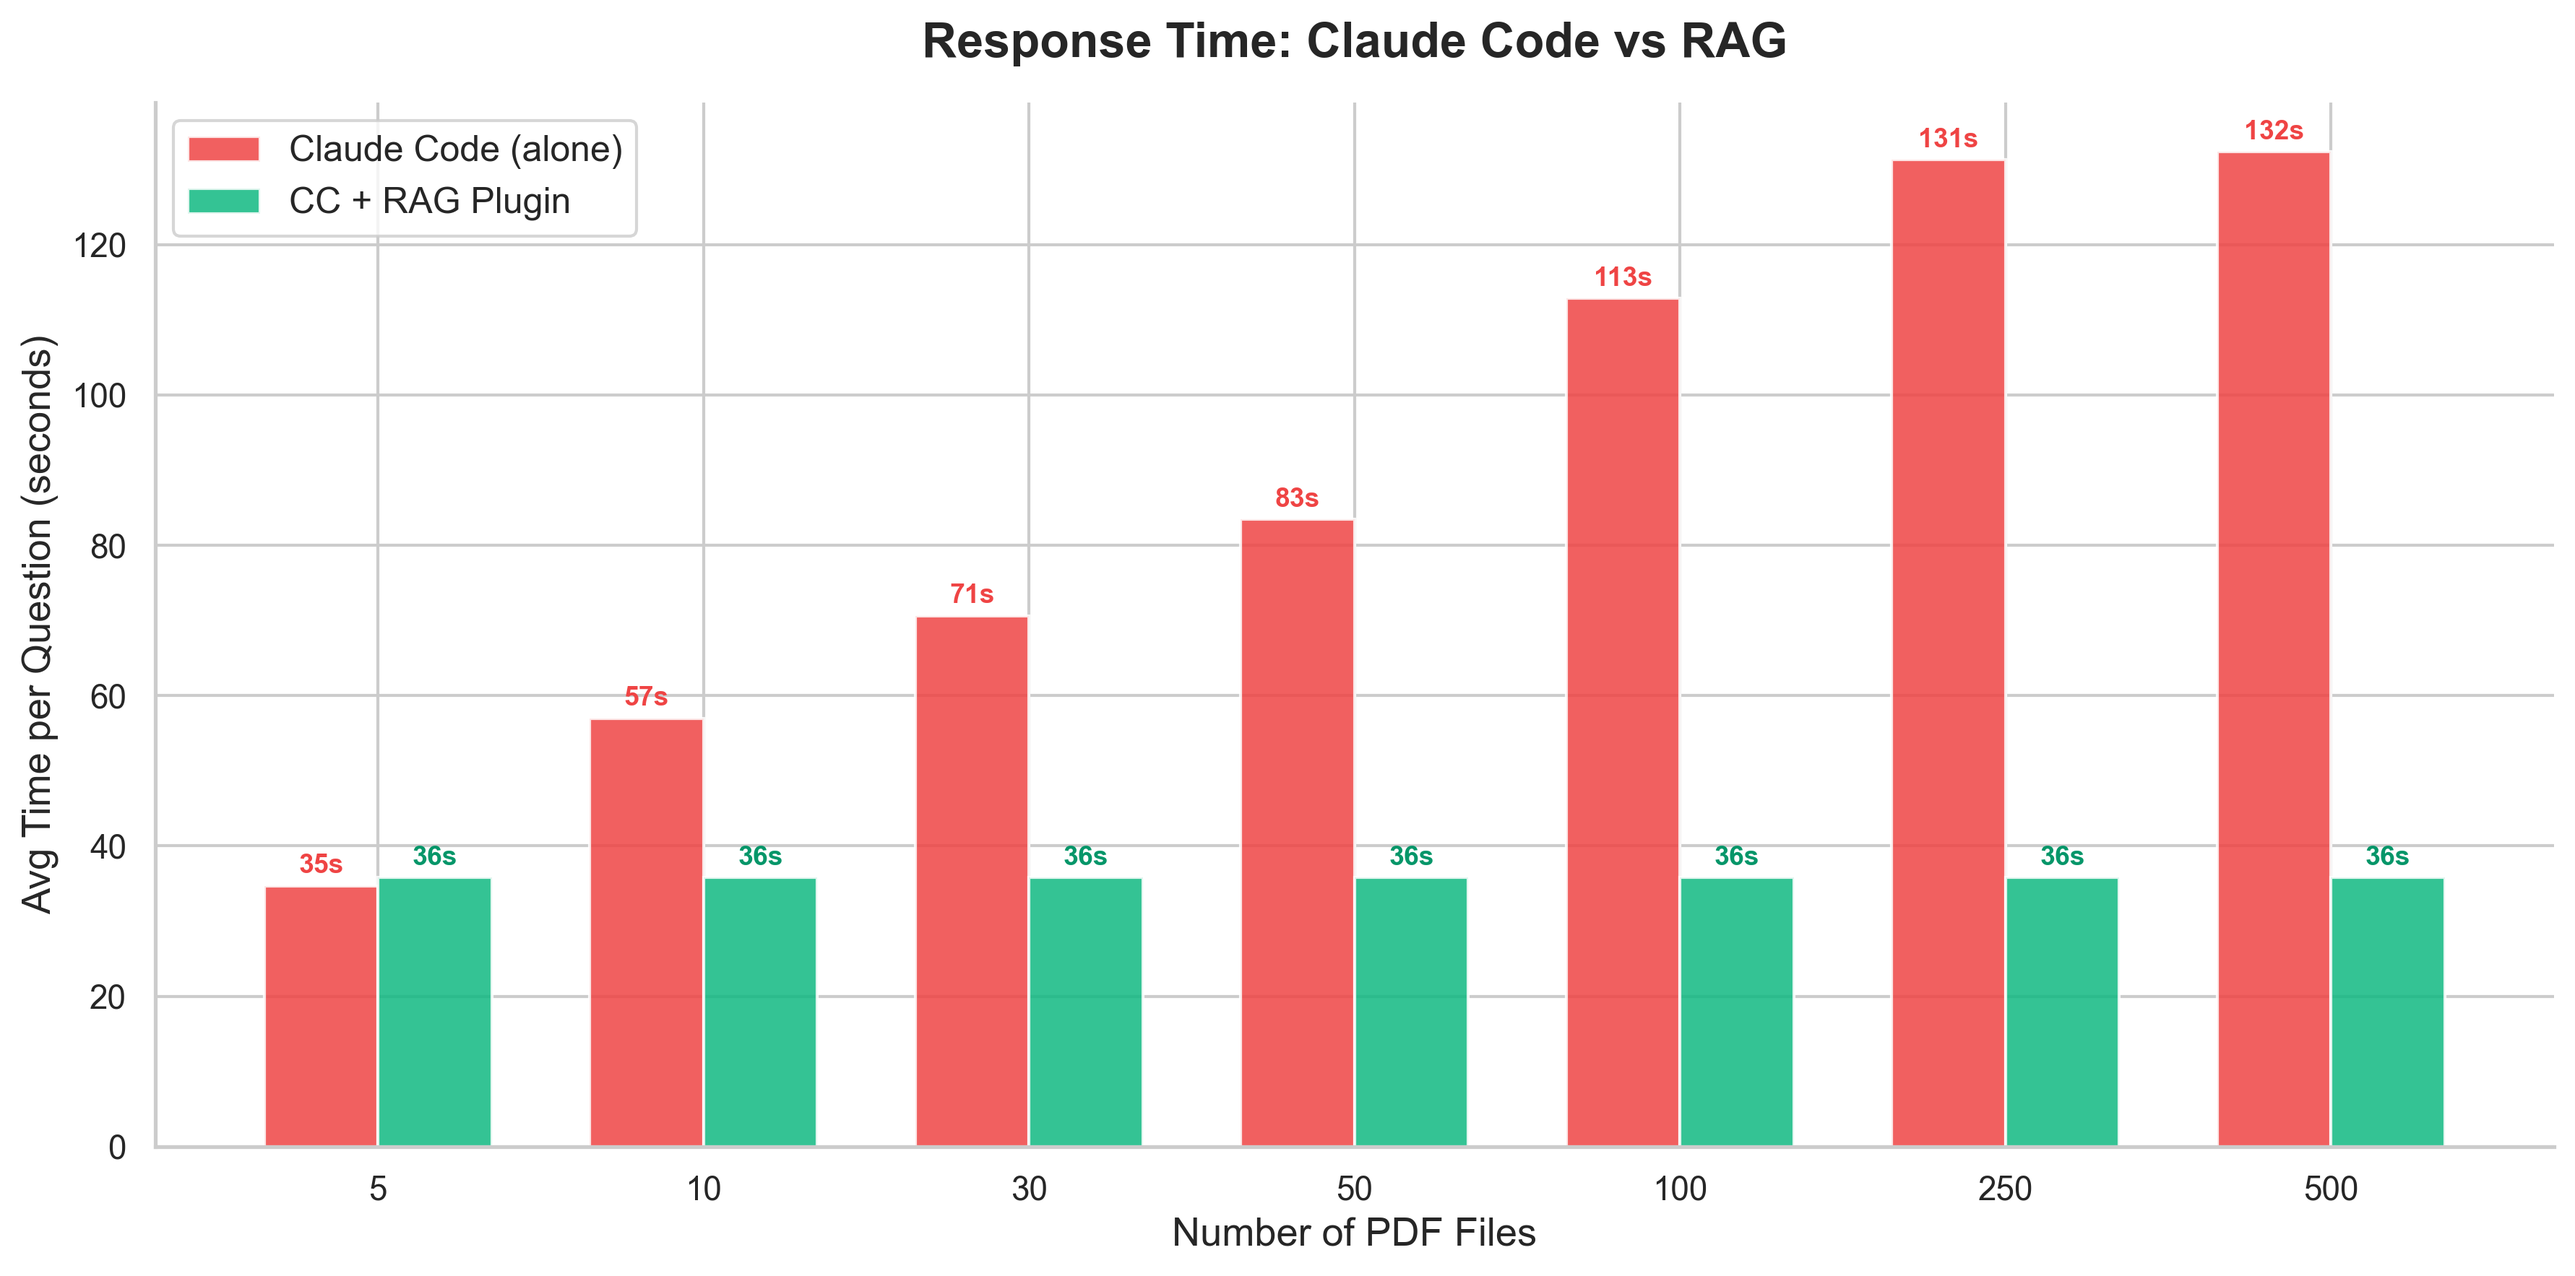
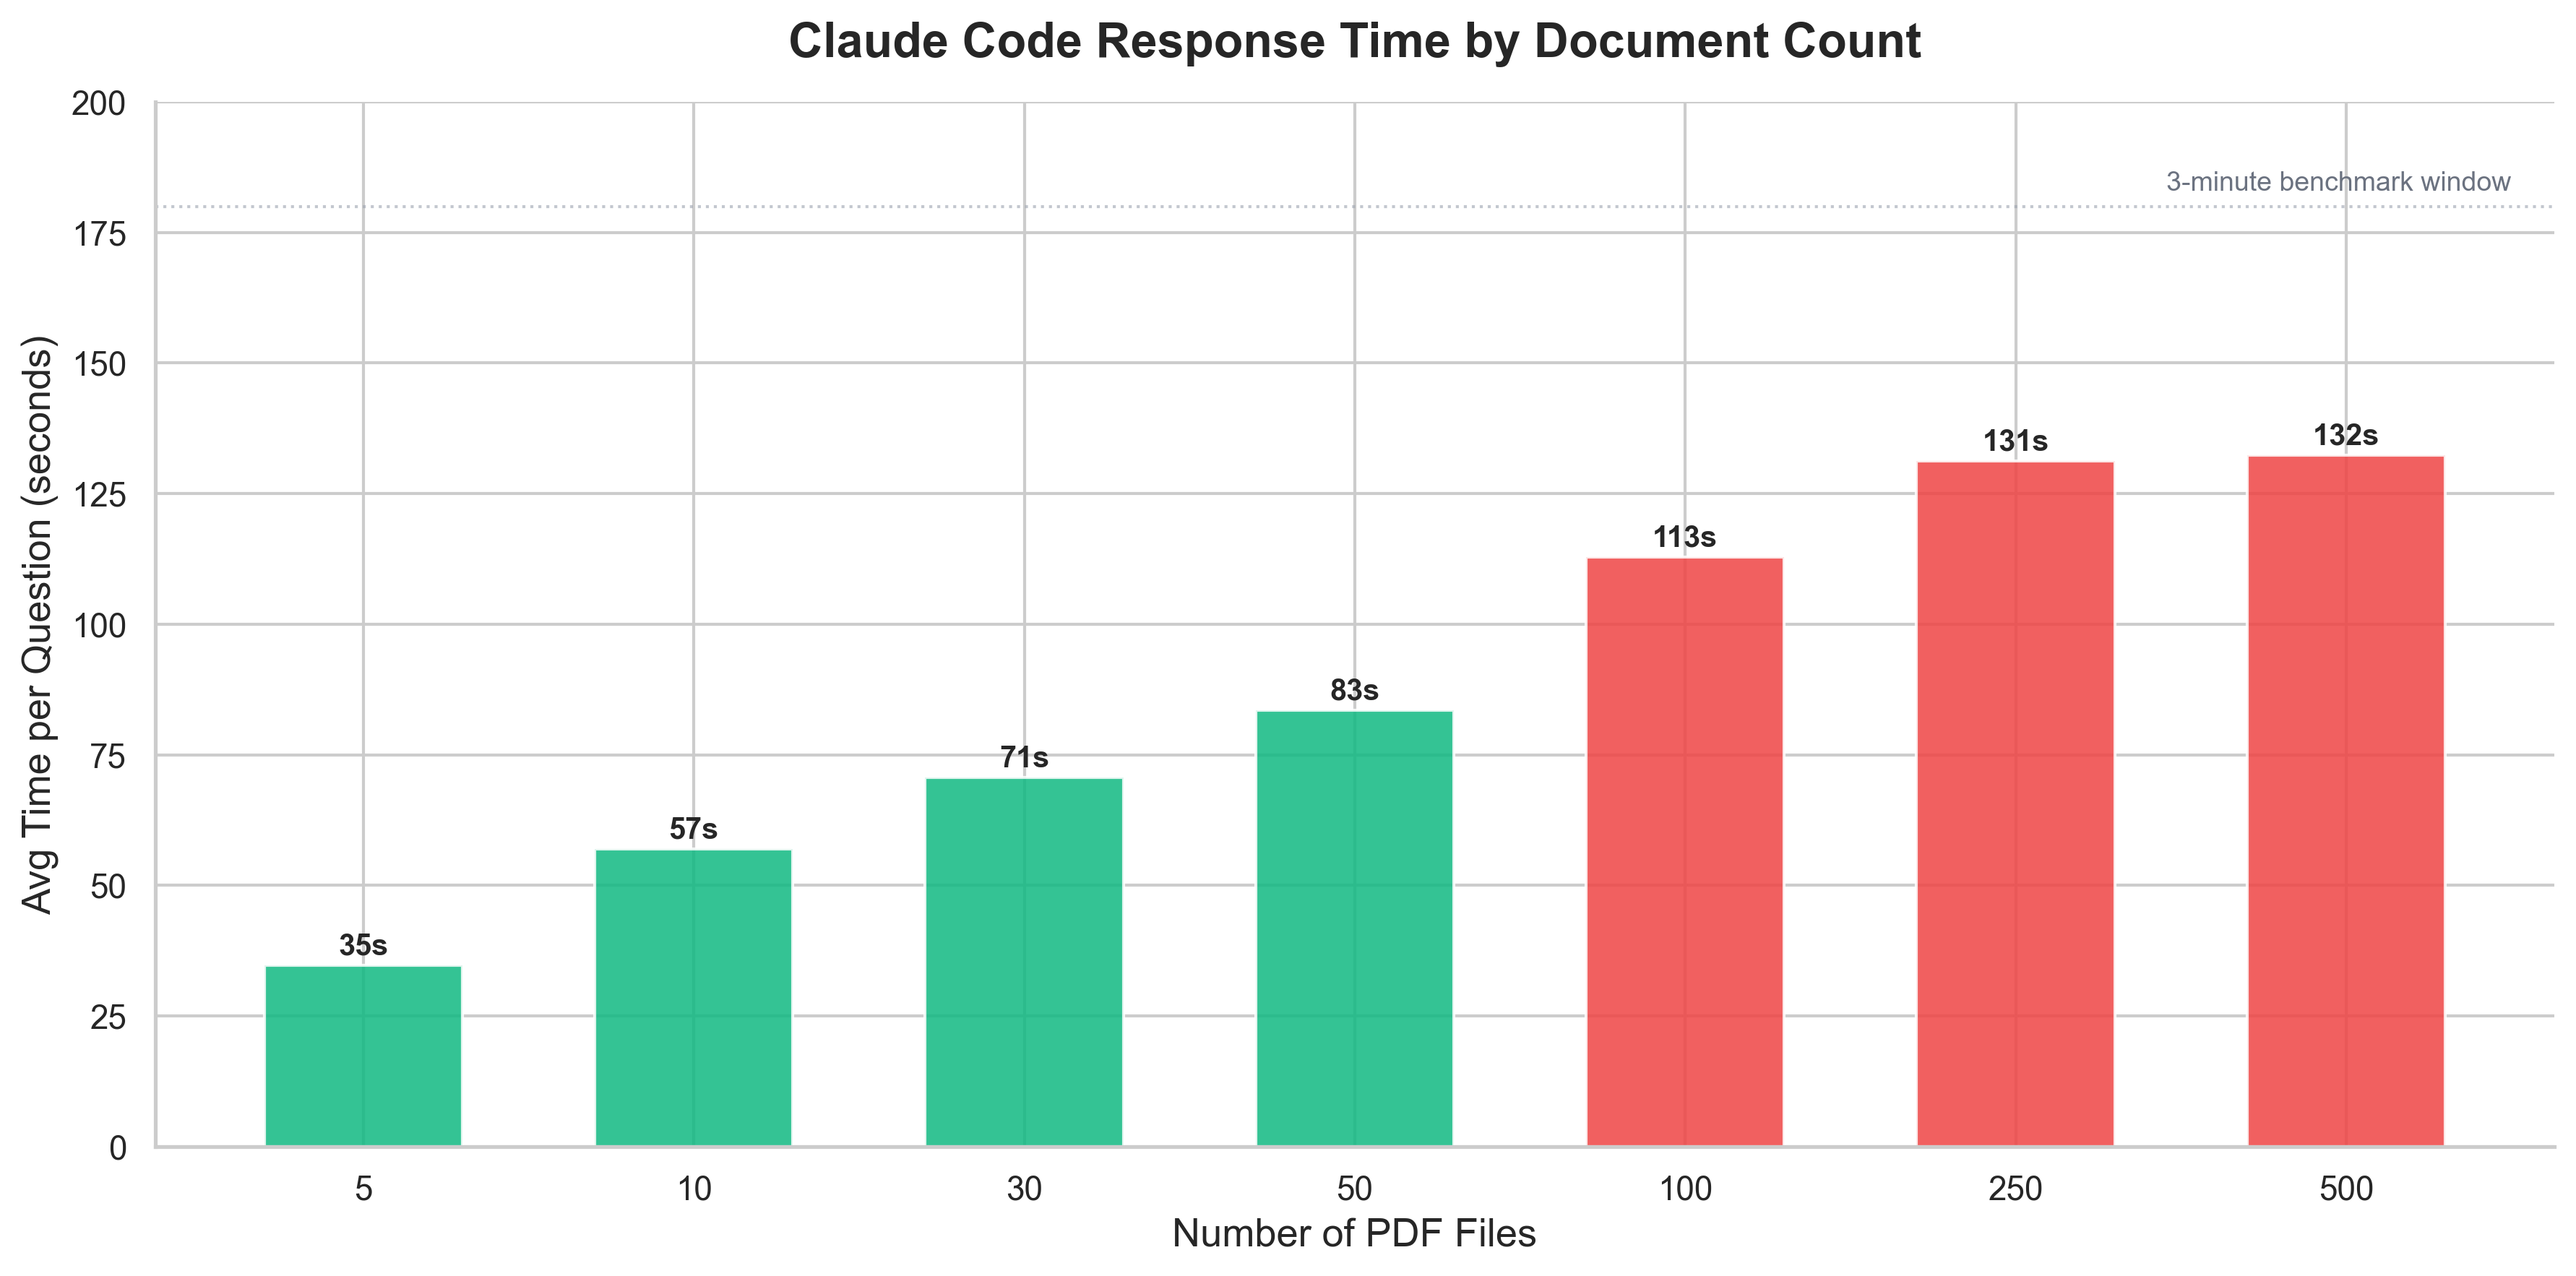
fix: remove misleading RAG comparison bars, fix scorecard costs
- Charts 03/04: now CC-only scaling charts (RAG only tested at 500,
  showing it flat across all tiers was misleading)
- Chart 08 scorecard: uses search-attempt cost at 100+ tiers
- README accuracy section: clarify two findings (findable vs absent)
- README: remove duplicate cost chart from comparison section

diff --git a/report_pdf_v2.py b/report_pdf_v2.py
@@ -324,30 +324,28 @@ def chart_time_comparison(cc_tiers, rag_stats, charts_dir, dpi=300):
     cc_times = [s["avg_time"] for s in cc_tiers]
 
     x = np.arange(len(tiers))
-    w = 0.35
+    w = 0.6
 
-    bars1 = ax.bar(x - w/2, cc_times, w, label="Claude Code (alone)", color=CC_COLOR, alpha=0.85)
+    colors = [RAG_COLOR if t <= 50 else CC_COLOR for t in tiers]
+    bars = ax.bar(x, cc_times, w, color=colors, alpha=0.85)
 
-    if rag_stats:
-        # Show RAG time as flat bar at each tier position for comparison
-        rag_times = [rag_stats["avg_time"]] * len(tiers)
-        bars2 = ax.bar(x + w/2, rag_times, w, label="CC + RAG Plugin", color=RAG_COLOR, alpha=0.85)
-        for bar in bars2:
-            h = bar.get_height()
-            ax.text(bar.get_x() + bar.get_width()/2., h + 1,
-                    f'{h:.0f}s', ha='center', va='bottom', fontsize=9, fontweight='bold', color='#059669')
-
-    for bar in bars1:
+    for bar in bars:
         h = bar.get_height()
         ax.text(bar.get_x() + bar.get_width()/2., h + 1,
-                f'{h:.0f}s', ha='center', va='bottom', fontsize=9, fontweight='bold', color=CC_COLOR)
+                f'{h:.0f}s', ha='center', va='bottom', fontsize=10, fontweight='bold')
+
+    # 3-minute line
+    ax.axhline(y=180, color=LIGHT_GRAY, linestyle=':', linewidth=1, alpha=0.6)
+    ax.text(len(tiers) - 0.5, 183, "3-minute benchmark window", fontsize=9,
+            color=GRAY, ha='right')
 
     ax.set_xlabel("Number of PDF Files", fontsize=13)
     ax.set_ylabel("Avg Time per Question (seconds)", fontsize=13)
-    ax.set_title("Response Time: Claude Code vs RAG", fontsize=16, fontweight="bold", pad=15)
+    ax.set_title("Claude Code Response Time by Document Count", fontsize=16,
+                 fontweight="bold", pad=15)
     ax.set_xticks(x)
     ax.set_xticklabels([f"{t:,}" for t in tiers])
-    ax.legend(fontsize=12, loc="upper left")
+    ax.set_ylim(0, 200)
 
     fig.tight_layout()
     save_chart(fig, charts_dir / "03_time_comparison.png", dpi)
@@ -370,29 +368,22 @@ def chart_cost_comparison(cc_tiers, rag_stats, charts_dir, dpi=300):
                for s in cc_tiers]
 
     x = np.arange(len(tiers))
-    w = 0.35
+    w = 0.6
 
-    bars1 = ax.bar(x - w/2, cc_cost, w, label="Claude Code (alone)", color=CC_COLOR, alpha=0.85)
+    colors = [RAG_COLOR if t <= 50 else CC_COLOR for t in tiers]
+    bars = ax.bar(x, cc_cost, w, color=colors, alpha=0.85)
 
-    if rag_stats:
-        rag_costs = [rag_stats["avg_cost"]] * len(tiers)
-        bars2 = ax.bar(x + w/2, rag_costs, w, label="CC + RAG Plugin", color=RAG_COLOR, alpha=0.85)
-        for bar in bars2:
-            h = bar.get_height()
-            ax.text(bar.get_x() + bar.get_width()/2., h + 0.003,
-                    f'${h:.2f}', ha='center', va='bottom', fontsize=9, fontweight='bold', color='#059669')
-
-    for bar in bars1:
+    for bar in bars:
         h = bar.get_height()
-        ax.text(bar.get_x() + bar.get_width()/2., h + 0.003,
-                f'${h:.2f}', ha='center', va='bottom', fontsize=9, fontweight='bold')
+        ax.text(bar.get_x() + bar.get_width()/2., h + 0.005,
+                f'${h:.2f}', ha='center', va='bottom', fontsize=10, fontweight='bold')
 
     ax.set_xlabel("Number of PDF Files", fontsize=13)
-    ax.set_ylabel("Cost per Question (USD)", fontsize=13)
-    ax.set_title("Cost per Question: Claude Code vs RAG", fontsize=16, fontweight="bold", pad=15)
+    ax.set_ylabel("Cost per Search Attempt (USD)", fontsize=13)
+    ax.set_title("Claude Code Cost per Question by Document Count", fontsize=16,
+                 fontweight="bold", pad=15)
     ax.set_xticks(x)
     ax.set_xticklabels([f"{t:,}" for t in tiers])
-    ax.legend(fontsize=12, loc="upper left")
 
     fig.tight_layout()
     save_chart(fig, charts_dir / "04_cost_comparison.png", dpi)
@@ -529,13 +520,15 @@ def chart_scorecard(cc_tiers, rag_stats, charts_dir, dpi=300):
 
     table_rows = []
     for s in cc_tiers:
+        # Use search_cost at 100+ (where raw avg is misleadingly low)
+        cost = s["avg_cost"] if s["completion_rate"] >= 0.9 else s["search_cost"]
         table_rows.append([
             f"{s['tier']:,}",
             f"{s['completion_rate']*100:.0f}%",
             f"{s['findable_accuracy']*100:.0f}%",
             f"{s['avg_time']:.0f}s",
             f"{s['p90_time']:.0f}s",
-            f"${s['avg_cost']:.2f}",
+            f"${cost:.2f}",
             f"{s['timeout_rate']*100:.0f}%",
         ])
 

diff --git a/README.md b/README.md
@@ -43,7 +43,8 @@ At 5 files, Claude Code answers in 35 seconds. By 100 files, average wait time n
 | Chart | Description |
 |-------|-------------|
 | ![Completion rate](results_pdf/charts_v2/01_completion_rate.png) | Searches completed within 3 minutes drops from 100% to 40% as documents scale |
-| ![Time comparison](results_pdf/charts_v2/03_time_comparison.png) | Response time: Claude Code alone vs with RAG plugin |
+| ![Time comparison](results_pdf/charts_v2/03_time_comparison.png) | Claude Code response time increases with document count |
+| ![Cost comparison](results_pdf/charts_v2/04_cost_comparison.png) | Claude Code cost per question by document count |
 | ![Worst case times](results_pdf/charts_v2/05_worst_case_times.png) | Average, P75, P90, and max response times by tier |
 | ![Behavior breakdown](results_pdf/charts_v2/09_behavior_breakdown.png) | What actually happens to each query at each tier |
 
@@ -65,8 +66,7 @@ We tested whether adding a RAG layer would solve this. Using the CustomGPT.ai MC
 
 | Chart | Description |
 |-------|-------------|
-| ![Head to head](results_pdf/charts_v2/06_head_to_head_500.png) | Side-by-side at 500 PDFs: completion, accuracy, time, timeout |
-| ![Cost comparison](results_pdf/charts_v2/04_cost_comparison.png) | Cost per question: Claude Code vs RAG |
+| ![Head to head](results_pdf/charts_v2/06_head_to_head_500.png) | Side-by-side at 500 PDFs: completion, accuracy, time, cost |
 | ![Headline numbers](results_pdf/charts_v2/07_headline_numbers.png) | Key metrics at a glance |
 | ![Scorecard](results_pdf/charts_v2/08_scorecard.png) | Full results scorecard across all tiers |
 
@@ -74,13 +74,15 @@ We tested whether adding a RAG layer would solve this. Using the CustomGPT.ai MC
 
 ## Accuracy and Hallucination Findings
 
-Without RAG, when the requested information is not present in the document set, Claude Code returns a fabricated answer 50-100% of the time with no indication the answer may be incorrect. With RAG, it returns "not found" instead.
+**Two separate findings:**
 
-RAG does not just make Claude Code faster. It makes it honest. The retrieval layer gives Claude Code a definitive signal about what exists in the document set before it answers.
+**1. When the answer exists in the documents:** Claude Code alone found the correct answer only 20-40% of the time (depending on document count). The remaining searches either exceeded the 3-minute window or returned "I don't have that information" without searching the files. With RAG, every findable question was answered correctly.
+
+**2. When the answer does not exist in the documents:** Without RAG, Claude Code returns a fabricated answer 50-100% of the time with no indication the answer may be incorrect. With RAG, it returns "not found" instead. RAG gives Claude Code a definitive signal about what exists in the document set before it answers.
 
 | Chart | Description |
 |-------|-------------|
-| ![Accuracy](results_pdf/charts_v2/02_accuracy.png) | Accuracy on findable questions: Claude Code alone vs RAG |
+| ![Accuracy](results_pdf/charts_v2/02_accuracy.png) | How often Claude Code found the correct answer on questions where the answer exists in the documents. RAG found it every time. |
 
 ---
 
